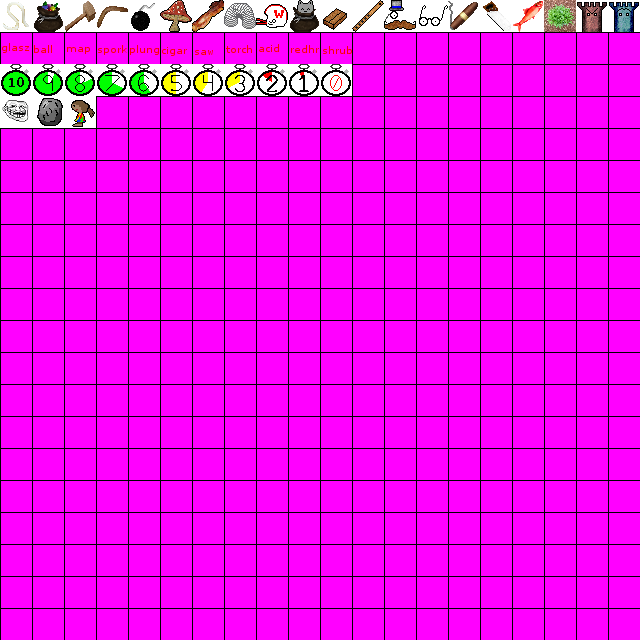
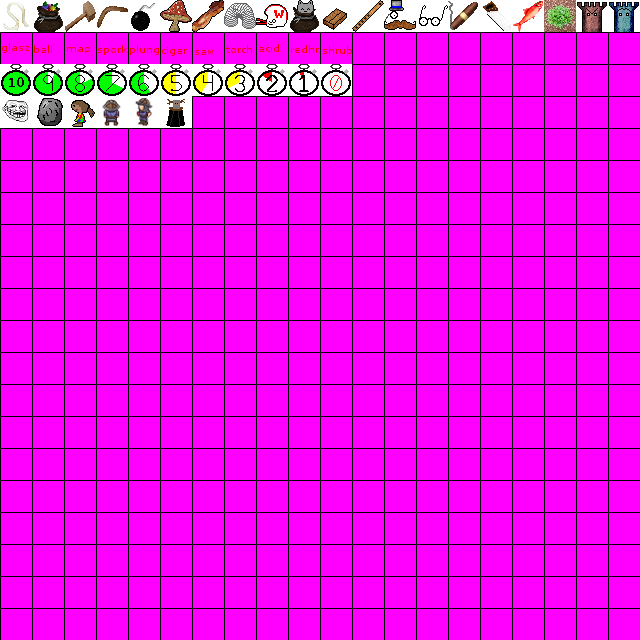
Knights who say NI!

Changed region(s): [[0.125, 0.125, 0.3125, 0.2188]]

diff --git a/skeleton/src/com/gamedev/ld27/obstacle/DragonShackles.java b/skeleton/src/com/gamedev/ld27/obstacle/DragonShackles.java
@@ -7,6 +7,6 @@ public class DragonShackles extends BaseObstacle {
 
 	public DragonShackles() {
 		super("Dragon Shackles", "The dragon is in chains and has to be released from them", GameSettings.DragonChain);
-		this.setIcon(Assets.cardboardBox);
+		this.setIcon(Assets.dragonChains);
 	}
 }

diff --git a/skeleton/src/com/gamedev/ld27/obstacle/CastleGuard.java b/skeleton/src/com/gamedev/ld27/obstacle/CastleGuard.java
@@ -7,7 +7,7 @@ public class CastleGuard extends BaseObstacle {
 
 	public CastleGuard() {
 		super("Castle guard", "The guard will prevent you from getting into the castle", GameSettings.CastleGuards);
-		this.setIcon(Assets.cardboardBox);
+		this.setIcon(Assets.commonGuard);
 	}
 
 }

diff --git a/skeleton/src/com/gamedev/ld27/obstacle/KnightWhoSaysNi.java b/skeleton/src/com/gamedev/ld27/obstacle/KnightWhoSaysNi.java
@@ -7,7 +7,7 @@ public class KnightWhoSaysNi extends BaseObstacle {
 
 	public KnightWhoSaysNi() {
 		super("Knight who says 'Ni'", "You must bring him.... a shrubbery!", GameSettings.GuardDog);
-		this.setIcon(Assets.cardboardBox);
+		this.setIcon(Assets.knightOfNi);
 	}
 
 }

diff --git a/skeleton/src/com/gamedev/ld27/obstacle/DefensiveTower.java b/skeleton/src/com/gamedev/ld27/obstacle/DefensiveTower.java
@@ -7,6 +7,6 @@ public class DefensiveTower extends BaseObstacle {
 
 	public DefensiveTower() {
 		super("Defensive Tower", "This guy can't take a joke", GameSettings.DefensiveTower);
-		this.setIcon(Assets.cardboardBox);
+		this.setIcon(Assets.defensiveTower);
 	}
 }

diff --git a/skeleton/src/com/gamedev/ld27/obstacle/SmokingGuard.java b/skeleton/src/com/gamedev/ld27/obstacle/SmokingGuard.java
@@ -7,7 +7,7 @@ public class SmokingGuard extends BaseObstacle {
 
 	public SmokingGuard() {
 		super("Smoking Guard", "Remember kids, smoking kills!", GameSettings.GuardDog);
-		this.setIcon(Assets.cardboardBox);
+		this.setIcon(Assets.smokingGuard);
 	}
 
 }

diff --git a/skeleton/src/com/gamedev/ld27/obstacle/GuardDog.java b/skeleton/src/com/gamedev/ld27/obstacle/GuardDog.java
@@ -7,6 +7,6 @@ public class GuardDog extends BaseObstacle {
 
 	public GuardDog() {
 		super("Guard Dog", "Dangerously fishy breath", GameSettings.GuardDog);
-		this.setIcon(Assets.cardboardBox);
+		this.setIcon(Assets.dog);
 	}
 }

diff --git a/skeleton/src/com/gamedev/ld27/obstacle/Snake.java b/skeleton/src/com/gamedev/ld27/obstacle/Snake.java
@@ -7,7 +7,7 @@ public class Snake extends BaseObstacle {
 	
 	public Snake() {
 		super("Snake", "Hisssssss", GameSettings.Snake);
-		this.setIcon(Assets.aShrubbery);
+		this.setIcon(Assets.snake);
 	}
 
 }
